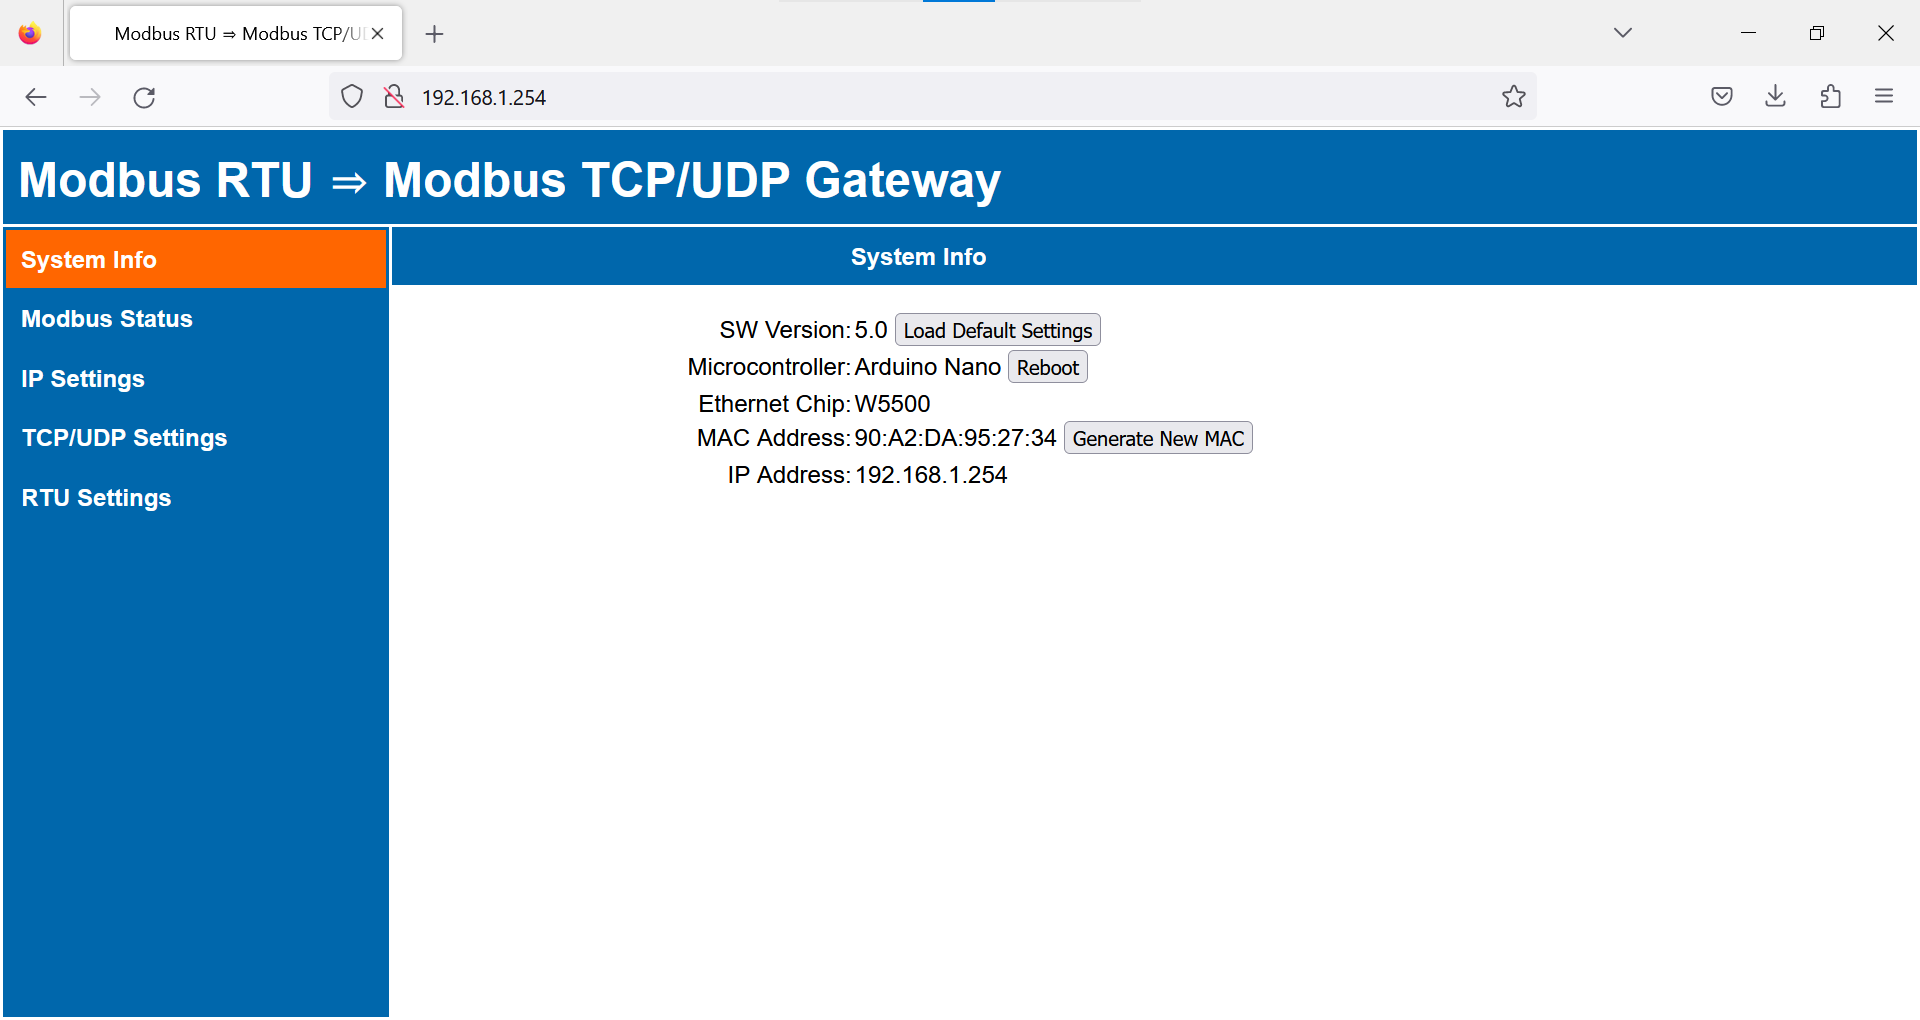
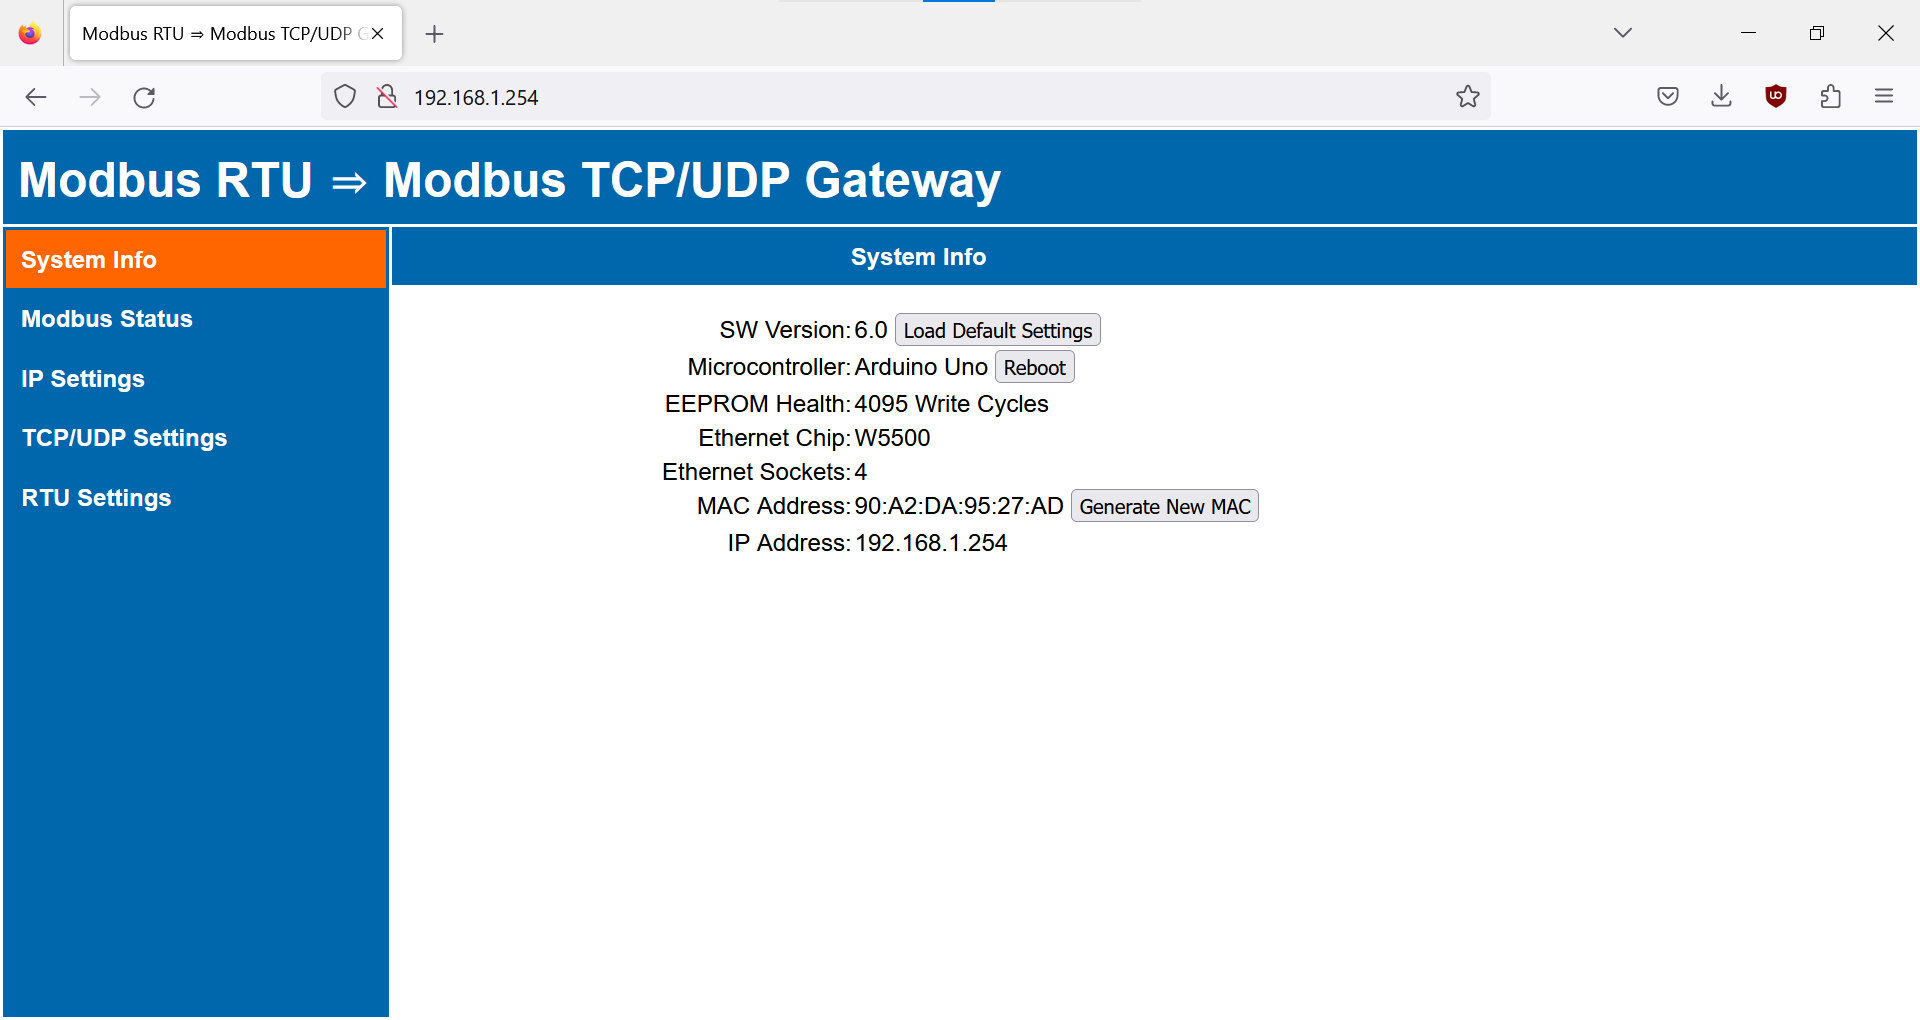
Screenshot, Readme

diff --git a/README.md b/README.md
@@ -59,7 +59,7 @@ Change settings of your Arduino-based Modbus RTU to Modbus TCP/UDP gateway via w
 
 **Reboot**.
 
-**EEPROM Health**. Keeps track of EEPROM write cycles (persistent, never cleared during factory resets)
+**EEPROM Health**. Keeps track of EEPROM write cycles (this counter is persistent, never cleared during factory resets). Replace your Arduino once you reach 100 000 write cycles (with 6 hours EEPROM_INTERVAL you have more than 50 years lifespan).
 
 **Ethernet Sockets**. Max number of usable sockets. See Limitations bellow. One socket is reserved for Modbus UDP, remaining sockets are shared between Modbus TCP and WebUI.
 
@@ -165,11 +165,16 @@ Get the hardware (cheap clones from China are sufficient) and connect together:
       Rx0 <-> RO
       Pin 6 <-> DE,RE
 
-Here is my setup:
+Here is my HW setup:
 Terminal shield + Arduino Nano + W5500 ethernet shield (RobotDyn) + TTL to RS485 module (HW automatic flow control)
 <img src="/pics/HW.jpg" alt="01" style="zoom:100%;" />
 
-Download this repository (all *.ino files) and open arduino-modbus-rtu-tcp-gateway.ino in Arduino IDE. Download all required libraries (they are available in "library manager"). If you want, you can check the default factory settings (can be later changed via web interface) and advanced settings (can only be changed in the sketch). Compile and upload your program to Arduino. Connect your Arduino to ethernet, connect your Modbus RTU slaves to MAX485 module. Use your web browser to access the web interface on default IP  http://192.168.1.254   Enjoy :-)
+You can either:
+- ** Download and flash my pre-compiled firmware** from "Releases".
+- **Compile your own firmware**. Download this repository (all *.ino files) and open arduino-modbus-rtu-tcp-gateway.ino in Arduino IDE. Download all required libraries (they are available in "library manager"). If you want, you can check the default factory settings (can be later changed via web interface) and advanced settings (can only be changed in the sketch). Compile and upload your program to Arduino.
+
+Connect your Arduino to ethernet and use your web browser to access the web interface on default IP:  http://192.168.1.254
+Enjoy :-)
 
 ## Where can I learn more about Modbus protocols?
 
@@ -206,7 +211,7 @@ The number of used sockets is determined (by the Ethernet.h library) based on mi
 
 #### Memory
 
-Not everything could fit into the limited flash memory of Arduino Nano / Uno. If you have a microcontroller with more memory (such as Mega), you can enable extra settings in the main sketch by defining ENABLE_DHCP and/or ENABLE_EXTRA_DIAG in the sketch.
+Not everything could fit into the limited flash memory of Arduino Nano / Uno. If you have a microcontroller with more memory (such as Mega), you can enable extra settings in the main sketch by defining ENABLE_DHCP and/or ENABLE_EXTRA_DIAG in advanced settings.
 
 ## Version history
 
